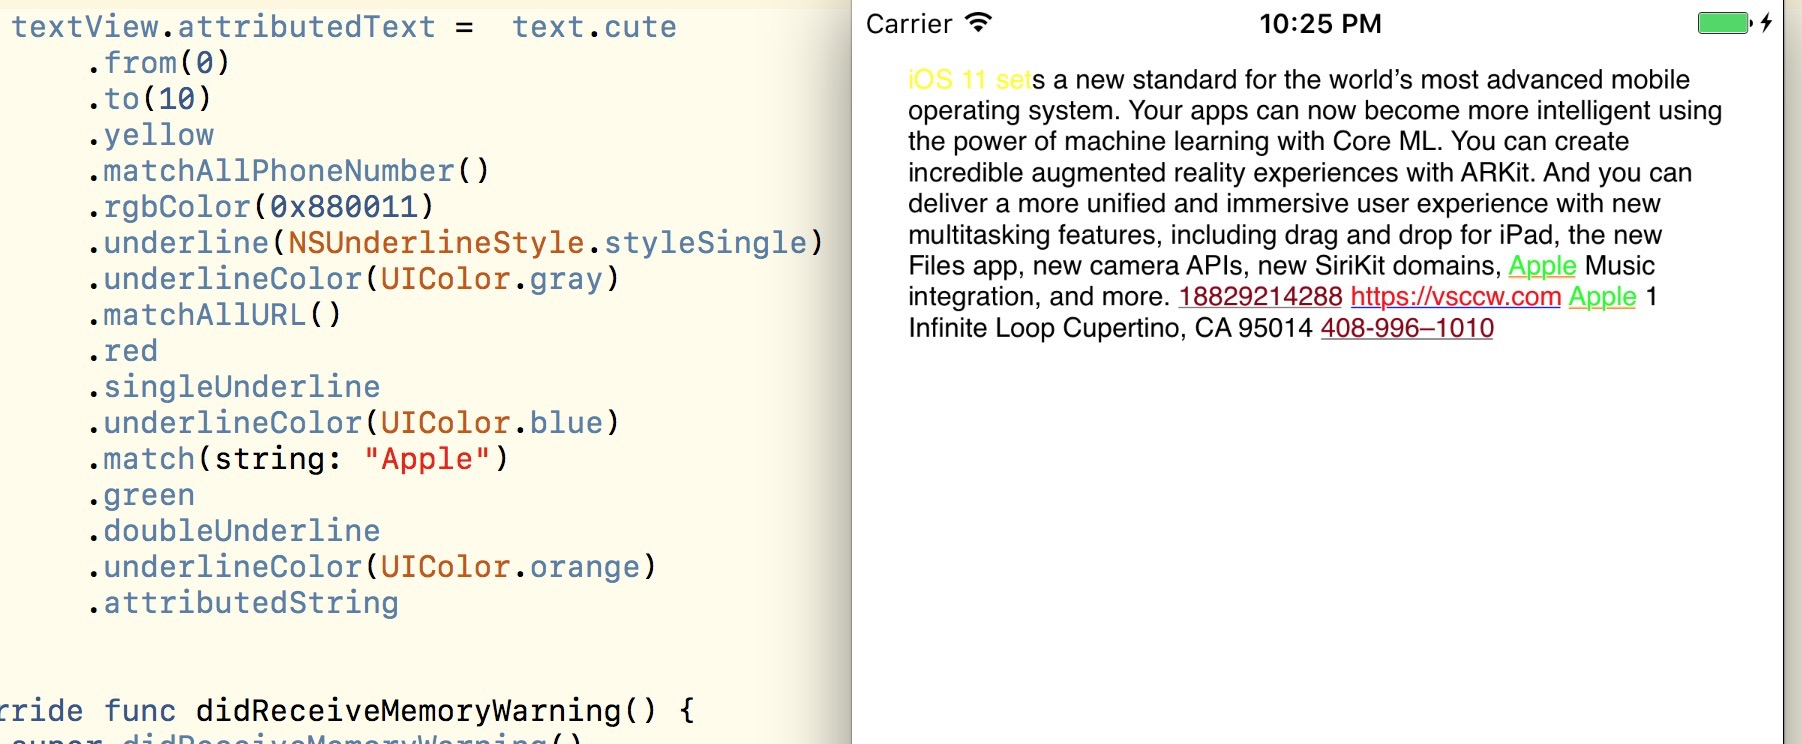
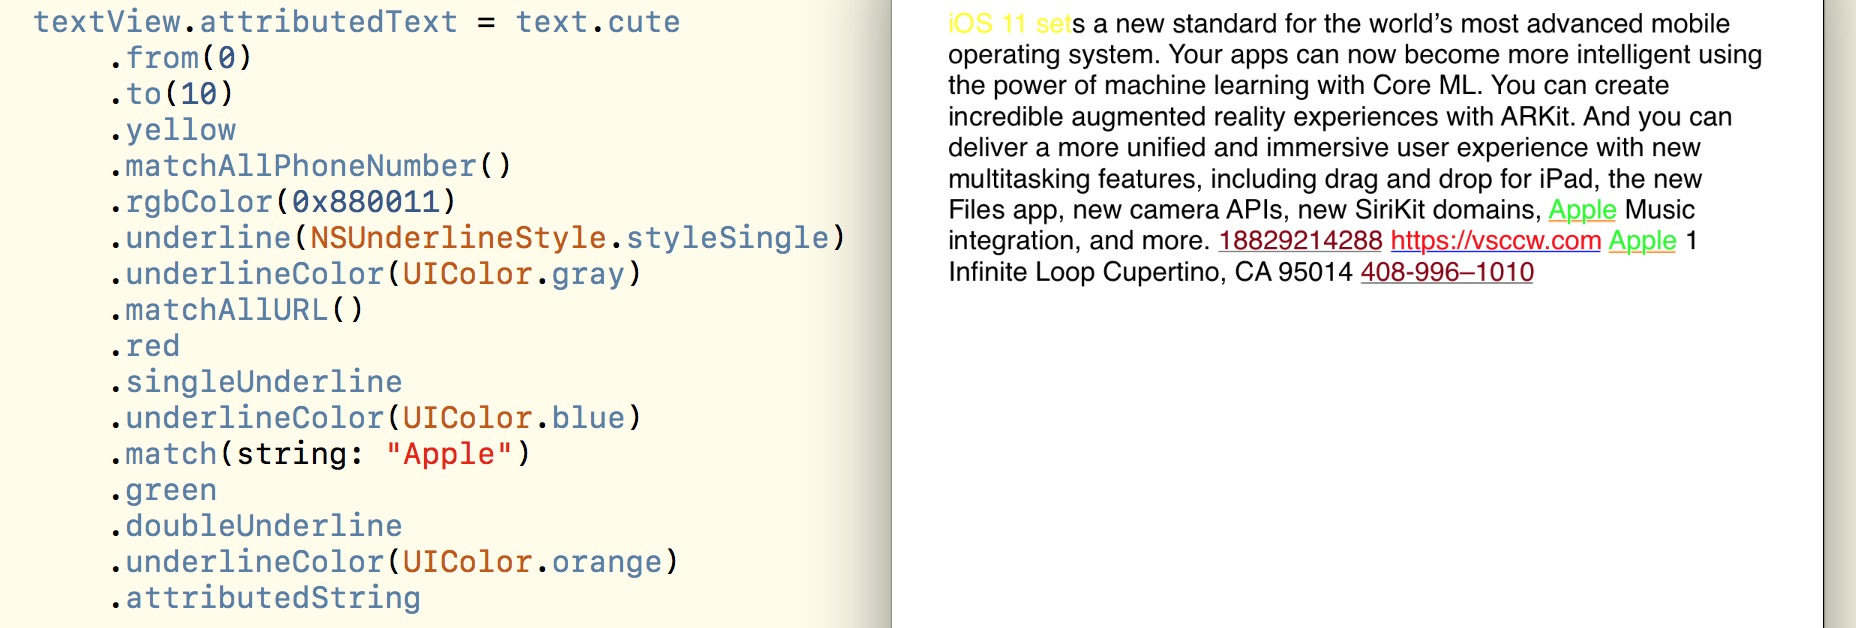
Fixed a whitespace in example.

Changed region(s): [[0.0, 0.0, 0.9945, 1.0]]

diff --git a/Example/ViewController.swift b/Example/ViewController.swift
@@ -18,7 +18,7 @@ class ViewController: UIViewController {
     override func viewDidLoad() {
         super.viewDidLoad()
         
-        textView.attributedText =  text.cute
+        textView.attributedText = text.cute
             .from(0)
             .to(10)
             .yellow
@@ -36,12 +36,5 @@ class ViewController: UIViewController {
             .underlineColor(UIColor.orange)
             .attributedString
     }
-    
-    override func didReceiveMemoryWarning() {
-        super.didReceiveMemoryWarning()
-        // Dispose of any resources that can be recreated.
-    }
-
-
 }
 
